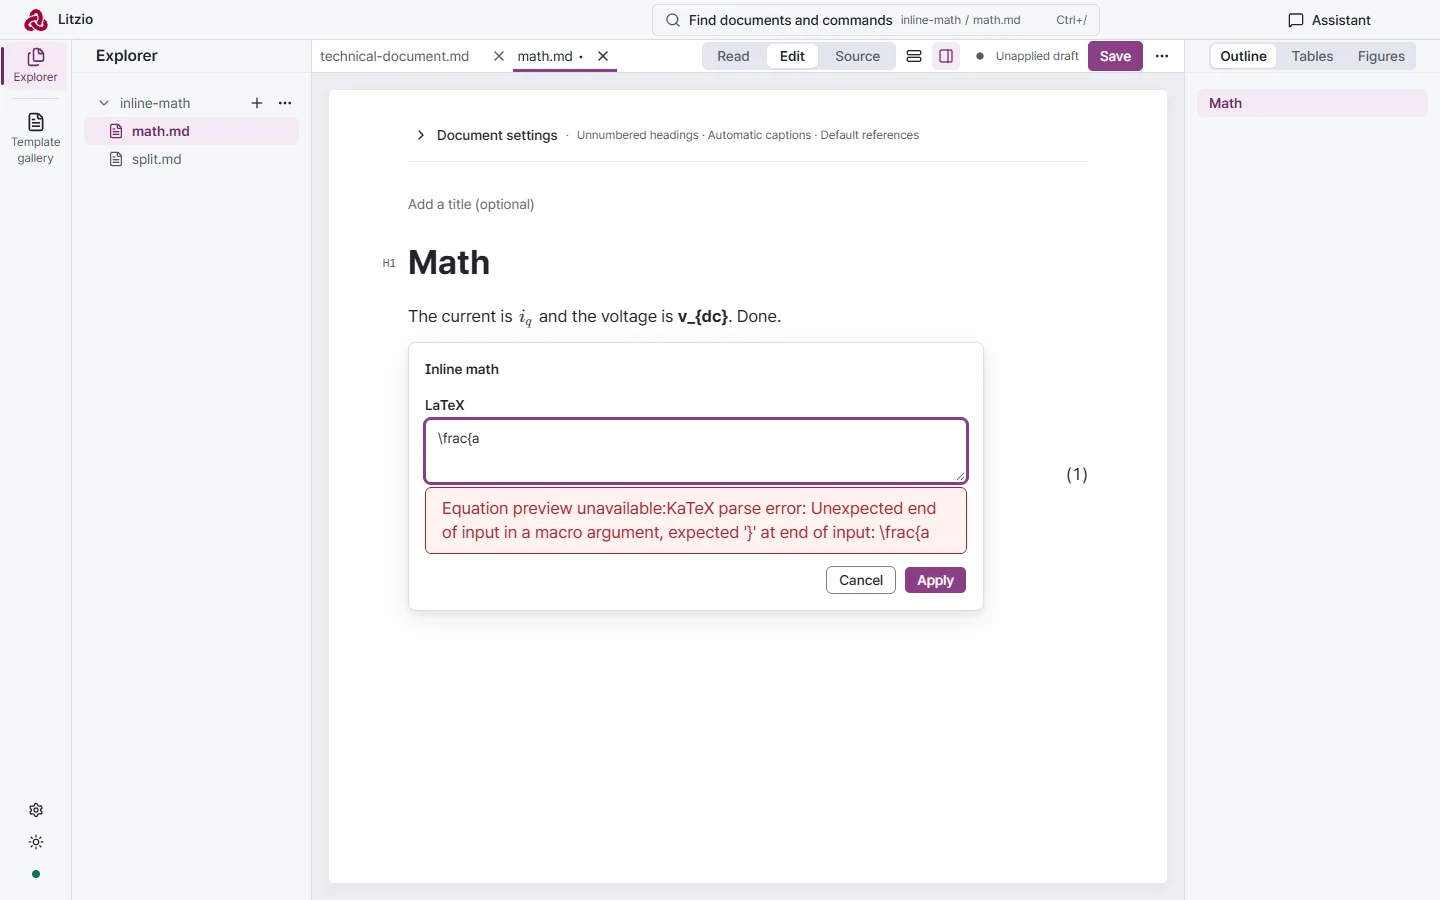
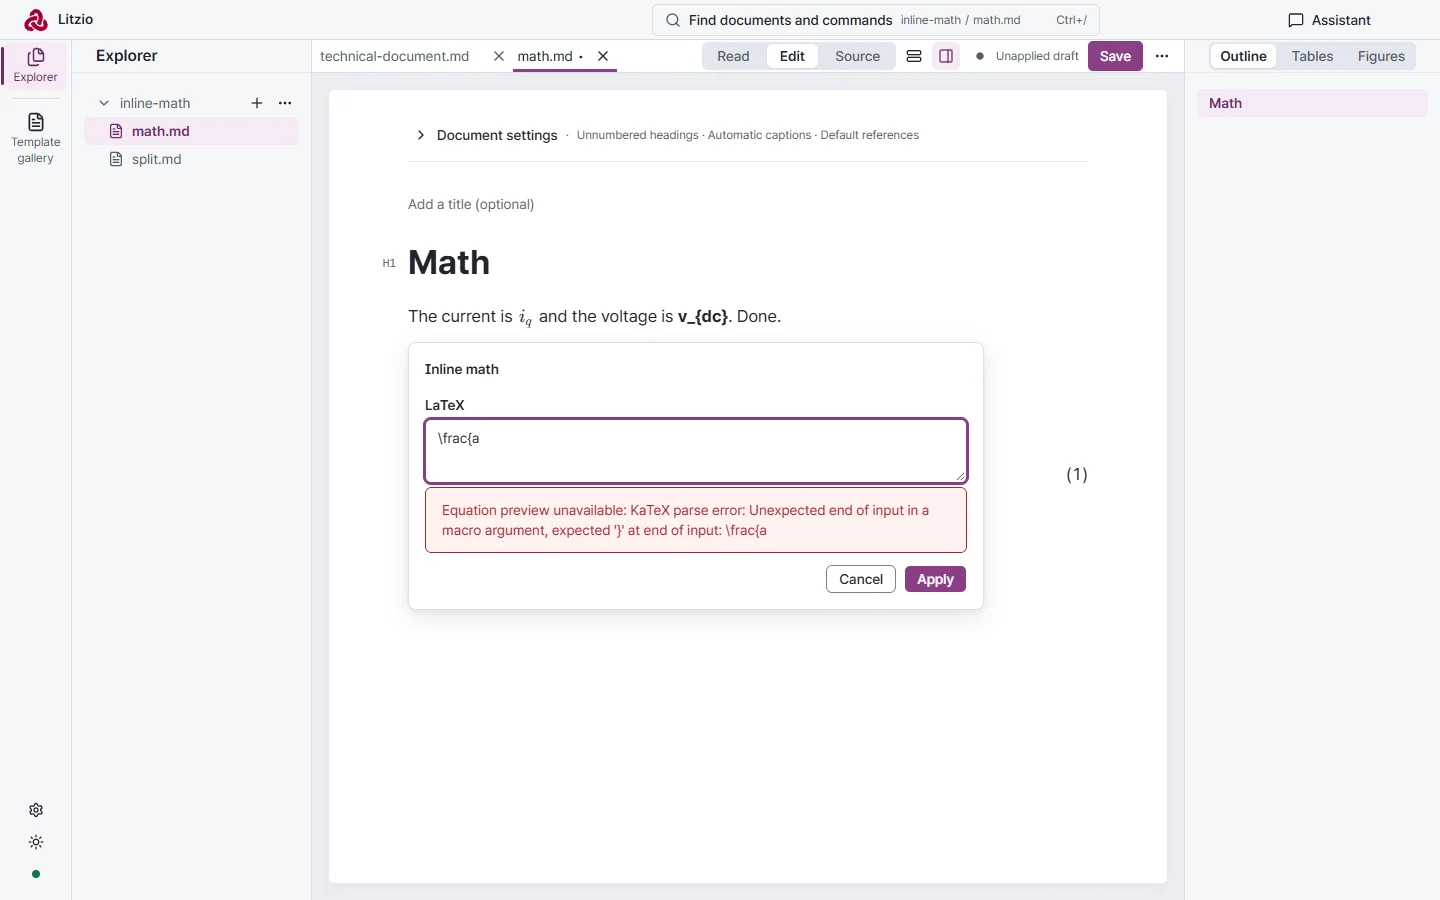
Separate the equation preview error from its reason
The preview error notice joined its label and the KaTeX reason without a
space. The inline preview's body-size styling also reached that notice;
it now applies only to a rendered formula.

AI-Agent: Claude Code
AI-Model: anthropic/claude-opus-5-5

Changed region(s): [[0.3125, 0.56, 0.6562, 0.6844]]

diff --git a/apps/editor/src/styles.css b/apps/editor/src/styles.css
@@ -1972,13 +1972,11 @@ ul.list[data-type="taskList"] > li > label > input {
 
 .inline-math-properties { width: var(--layout-inline-math-popover-width); }
 /* The draft preview scrolls inside the popover's width at the body text size, as in text. */
-.inline-math-preview {
-  min-width: 0;
-  min-height: 0;
+.inline-math-preview { min-width: 0; min-height: 0; text-align: left; }
+.inline-math-preview:not(.equation-preview-error) {
   padding-block: var(--space-2);
   overflow-y: hidden;
   font-size: var(--font-size-document);
-  text-align: left;
 }
 .inline-math-preview .katex { font-size: var(--math-inline-size); }
 .inline-math-input {

diff --git a/apps/editor/src/node-views/equation-view.tsx b/apps/editor/src/node-views/equation-view.tsx
@@ -220,7 +220,7 @@ export function EquationFormula({ className, latex, testId, inline = false, onDo
   const result = renderEquation(latex, !inline);
   if (result.error) {
     return (
-      <Notice className={`${className} equation-preview-error`} tone="error" data-testid={`${testId}-error`} onDoubleClick={onDoubleClick}>{i18n.t("Equation preview unavailable:")}{result.error}
+      <Notice className={`${className} equation-preview-error`} tone="error" data-testid={`${testId}-error`} onDoubleClick={onDoubleClick}>{i18n.t("Equation preview unavailable:")}{" "}{result.error}
       </Notice>
     );
   }

diff --git a/apps/editor/test/inline-math-authoring.browser.js b/apps/editor/test/inline-math-authoring.browser.js
@@ -363,7 +363,7 @@ async (page, { openPath, expect, screenshots }) => {
   expect(await preview.locator('.katex-display').count(), 'Preview uses inline mode').toBe(0);
   await capture('inline-preview-light-1440');
   await field.fill(String.raw`\frac{a`);
-  await expect(previewError).toContainText('Equation preview unavailable:');
+  await expect(previewError).toContainText('Equation preview unavailable: KaTeX');
   await expect(preview).toHaveCount(0);
   await capture('inline-preview-error-light-1440');
   await field.fill('');
